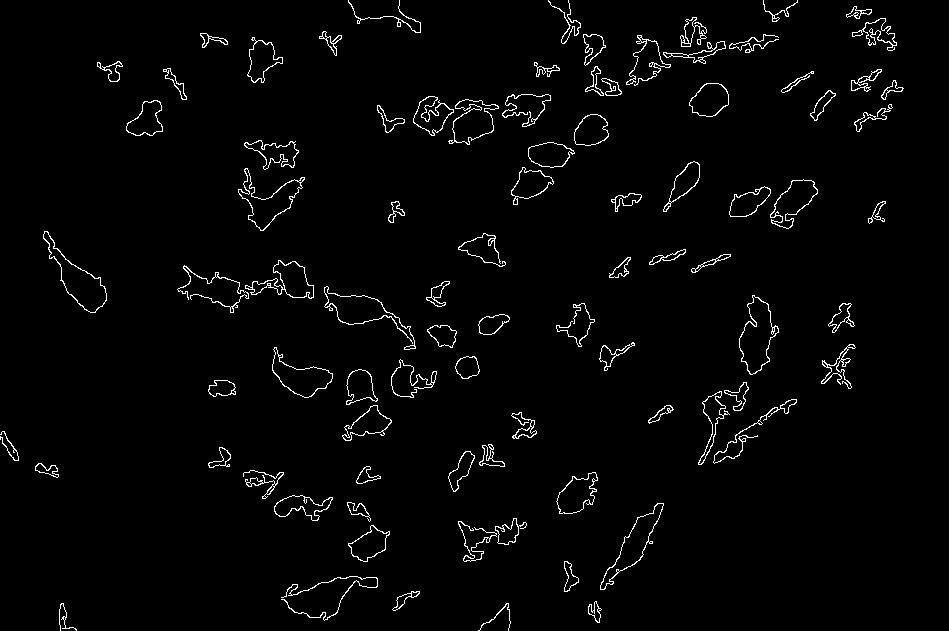
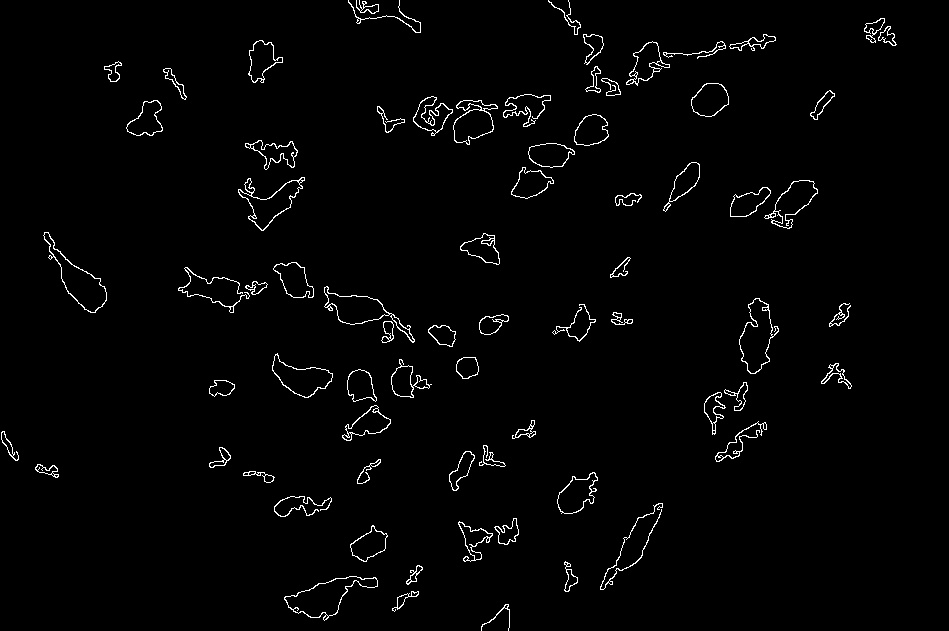
Initial commit

diff --git a/program/counter.py b/program/counter.py
@@ -21,18 +21,19 @@ image = cv2.filter2D(image, -1, kernel)
 gray_image = cv2.cvtColor(image, cv2.COLOR_BGR2GRAY)
 cv2.imwrite("gray.jpg", gray_image)
 gray_image = cv2.GaussianBlur(gray_image,(3,3),5)
-ret, threshold_image = cv2.threshold(gray_image, 115, 255, 0)
+ret, threshold_image = cv2.threshold(gray_image, 110, 255, 0)
 cv2.imwrite("threshold_image.jpg", threshold_image)
 
 #контурирование
-edged = cv2.Canny(threshold_image, 0, 250, apertureSize = 5, L2gradient=True)
+edged = cv2.Canny(threshold_image, 0, 250, apertureSize = 7, L2gradient=True)
 cv2.imwrite("edged.jpg", edged)
 
+#достраивание контуров
 kernel = cv2.getStructuringElement(cv2.MORPH_RECT, (7, 7))
 closed = cv2.morphologyEx(edged, cv2.MORPH_CLOSE, kernel)
 cv2.imwrite("closed.jpg", closed)
 
-#удаление белых точек
+#удаление белых точек по размеру
 nb_blobs, im_with_separated_blobs, stats, _ = cv2.connectedComponentsWithStats(edged)
 sizes = stats[:, -1]
 sizes = sizes[1:]
@@ -44,33 +45,37 @@ for blob in range(nb_blobs):
         im_result[im_with_separated_blobs == blob + 1] = 255
 cv2.imwrite("final.jpg", im_result)
 
-image1 = image.copy()
-im_result = im_result.astype(np.uint8)
-contours, hierarchy = cv2.findContours(im_result.copy(), cv2.RETR_TREE, cv2.CHAIN_APPROX_SIMPLE)
-cv2.drawContours(image1, contours, -1, (0,0,0), 3, cv2.LINE_AA)
-cv2.imwrite('contours_old.jpg', image1) # выводим итоговое изображение в окно
-
+#достраивание контуров на изображении без белых точек
 kernel = cv2.getStructuringElement(cv2.MORPH_RECT, (7, 7))
 closed_final = cv2.morphologyEx(im_result, cv2.MORPH_CLOSE, kernel)
 cv2.imwrite("closed_final.jpg", closed_final)
 
-#контурирование
+#контурирование на картинке
+image1 = image.copy()
+im_result = im_result.astype(np.uint8)
+contours, hierarchy = cv2.findContours(im_result.copy(), cv2.RETR_TREE, cv2.CHAIN_APPROX_SIMPLE)
+# отображаем контуры поверх изображения
+cv2.drawContours(image1, contours, -1, (0,0,0), 3, cv2.LINE_AA)
+cv2.imwrite('contours_old.jpg', image1)
+
+#контурирование на картинке с условием на площадь и периметр, чтобы убрать артефакты
 closed_final = closed_final.astype(np.uint8)
 contours, hierarchy = cv2.findContours(closed_final.copy(), cv2.RETR_TREE, cv2.CHAIN_APPROX_SIMPLE)
 new_contours = []
 for cnt in contours:
     area = cv2.contourArea(cnt)
     perimeter = cv2.arcLength(cnt, True)
-    if area - perimeter > 100:
+    if area/perimeter > 2.8:
         new_contours.append(cnt)
 # отображаем контуры поверх изображения
 cv2.drawContours(image, new_contours, -1, (0,0,0), 3, cv2.LINE_AA)
-cv2.imwrite('contours_new.jpg', image) # выводим итоговое изображение в окно
+cv2.imwrite('contours_new.jpg', image)
 
+#подсчет кол-ва нейронов. Нужно доработать, тк считает артефакты
 closed_final = closed_final.astype(np.uint8)
 cnts = cv2.findContours(closed_final.copy(), cv2.RETR_EXTERNAL, cv2.CHAIN_APPROX_SIMPLE)
 cnts = imutils.grab_contours(cnts)
 total = 0
 for c in cnts:
     total += 1
-print(f'На изображении {total} нейронов')
+print(f'На изображении {total} нейрон(ов)')
